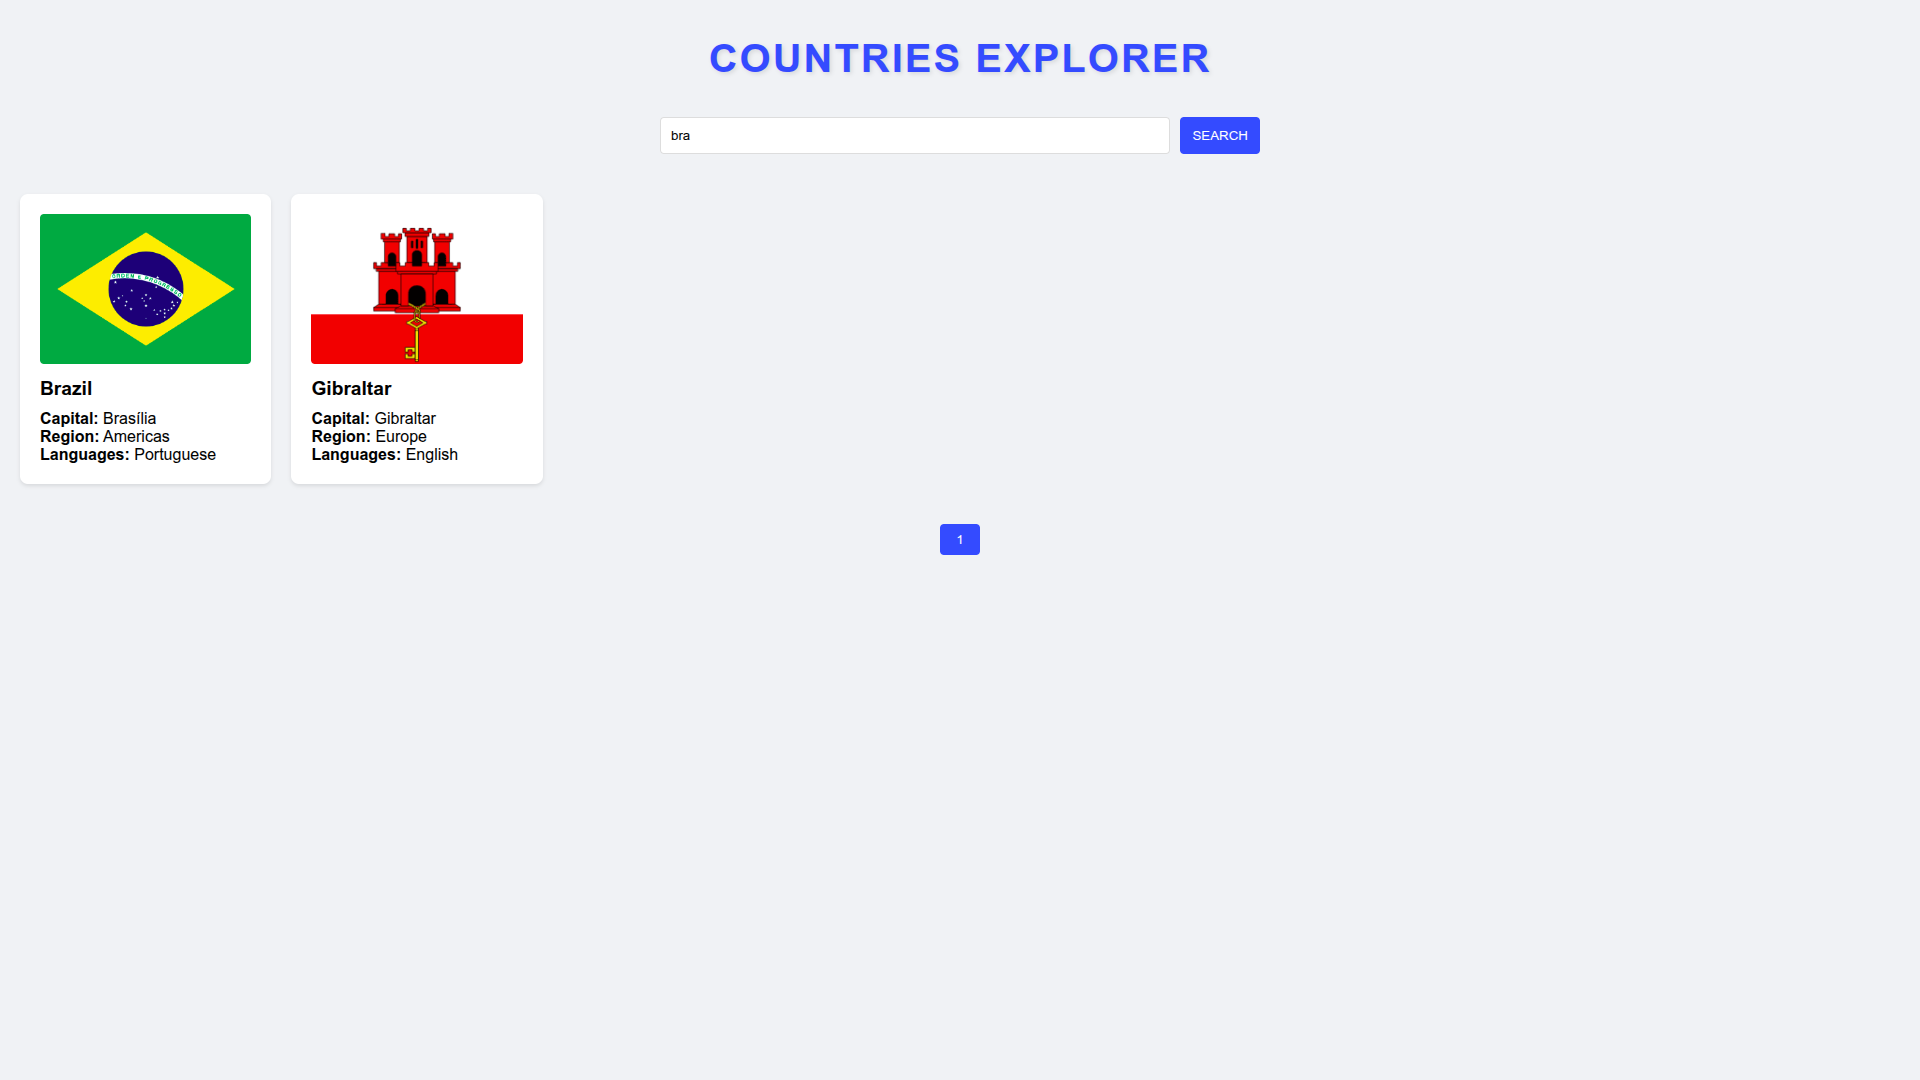
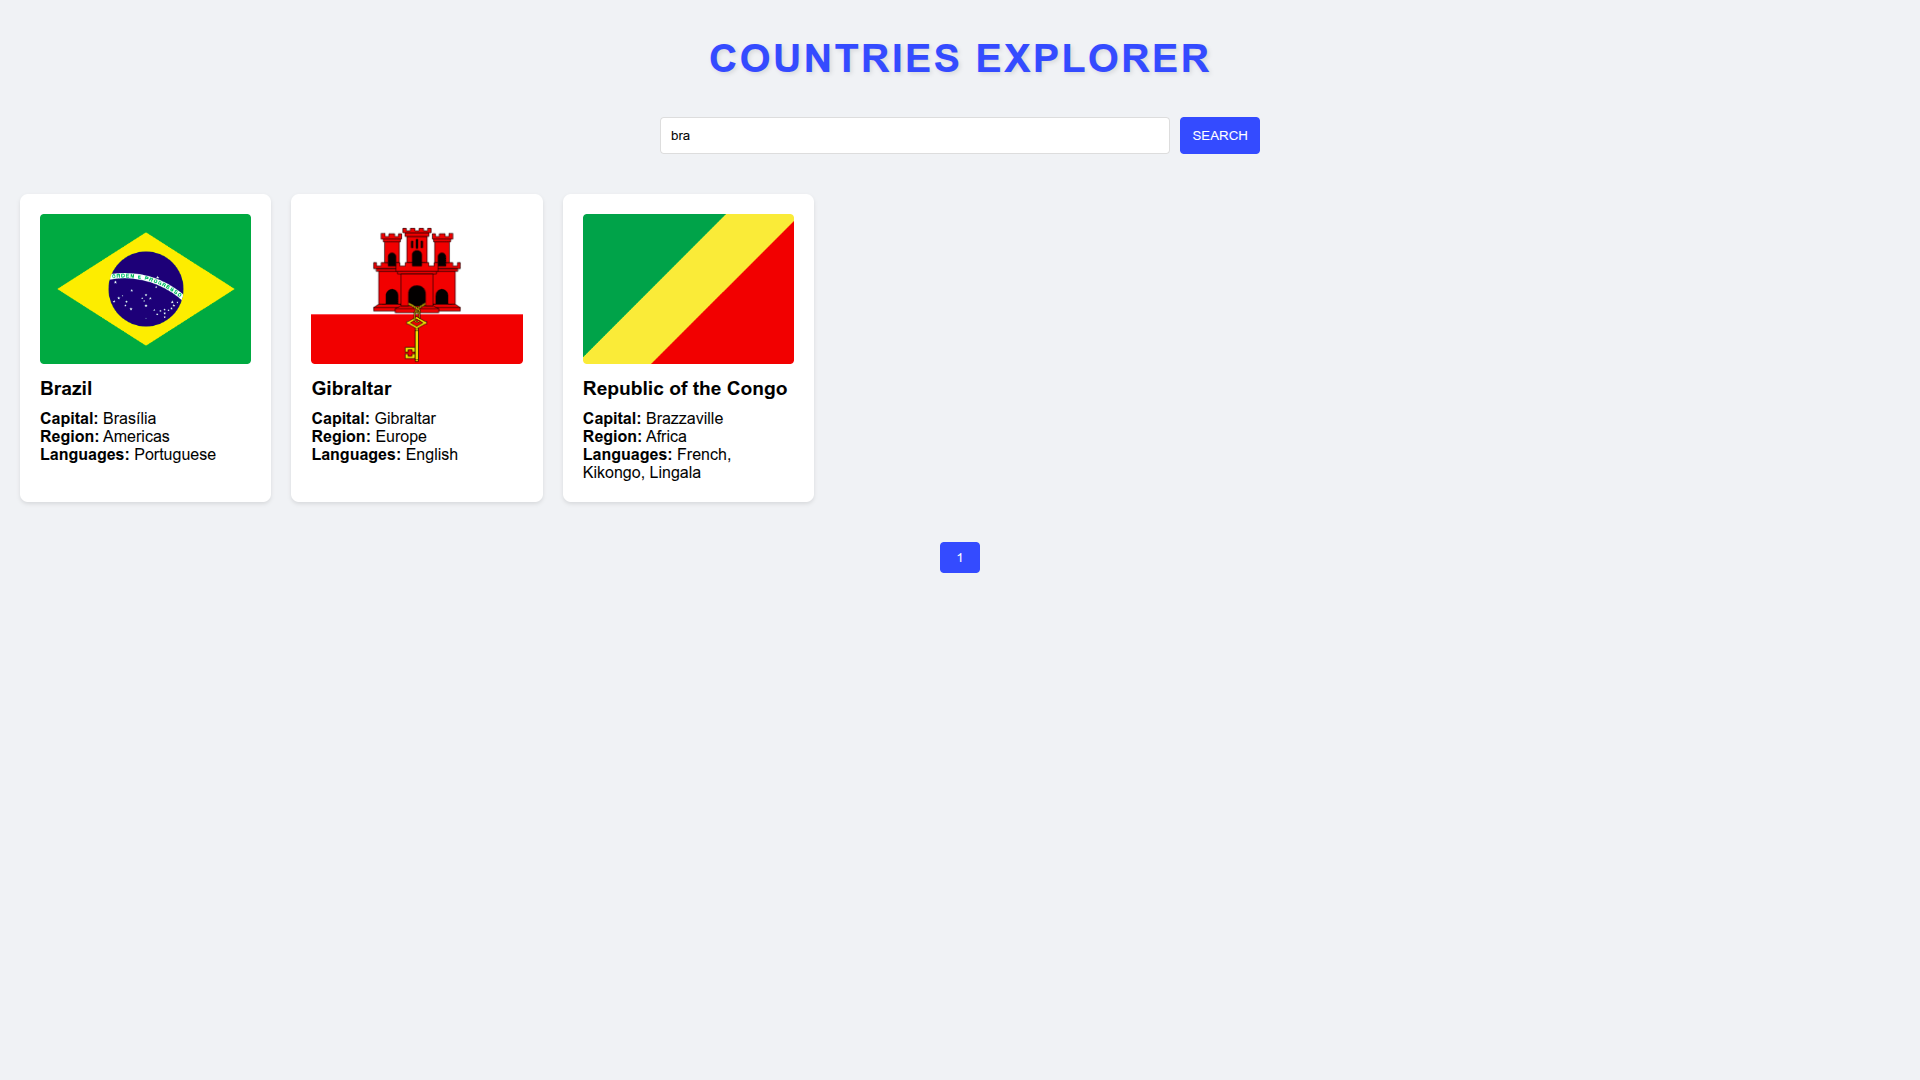
feat/refactor: filter by API, button title and general refactoring

Changed region(s): [[0.2812, 0.1833, 0.4375, 0.4583], [0.4688, 0.4889, 0.5312, 0.55]]

diff --git a/scripts/main.js b/scripts/main.js
@@ -1,42 +1,47 @@
 const ITEMS_PER_PAGE = 12;
 let currentPage = 1;
-let allCountries = [];
 let filteredCountries = [];
 
 document.addEventListener('DOMContentLoaded', () => {
     const searchInput = document.getElementById('searchInput');
     const searchBtn = document.getElementById('searchBtn');
     
-    // Fetch and initialize countries
-    fetch('https://restcountries.com/v3.1/all')
-        .then(response => response.json())
-        .then(initializeCountries)
-        .catch(handleError);
-
     // Event listeners
-    searchBtn.addEventListener('click', search);
-    searchInput.addEventListener('keydown', e => e.key === 'Enter' && search());
+    const triggerSearch = () => fetchCountries(searchInput.value.trim());
+    searchBtn.addEventListener('click', triggerSearch);
+    searchInput.addEventListener('keydown', e => e.key === 'Enter' && triggerSearch());
+    
+    // Initial load
+    fetchCountries();
 });
 
-function initializeCountries(data) {
-    allCountries = data.map(country => ({
-        name: country.name.common.toLowerCase(),
-        displayName: country.name.common,
-        capital: country.capital?.[0] || 'N/A',
-        region: country.region,
-        languages: Object.values(country.languages || {}).join(', ') || 'N/A',
-        flag: country.flags.png
-    }));
-    search();
-}
+async function fetchCountries(searchTerm = '') {
+    try {
+        const url = `https://restcountries.com/v3.1/${
+            searchTerm ? `name/${encodeURIComponent(searchTerm)}` : 'all'
+        }?fields=name,capital,region,languages,flags`;
+        
+        const response = await fetch(url);
+        const data = response.ok ? await response.json() : [];
+        
+        filteredCountries = data
+            .map(({ name, capital, region, languages, flags }) => ({
+                name: name.common.toLowerCase(),
+                displayName: name.common,
+                capital: capital?.[0] || 'N/A',
+                region: region,
+                languages: Object.values(languages || {}).join(', ') || 'N/A',
+                flag: flags.png
+            }))
+            .sort((a, b) => a.displayName.localeCompare(b.displayName));
 
-function search() {
-    const searchTerm = document.getElementById('searchInput').value.trim().toLowerCase();
-    filteredCountries = allCountries
-        .filter(country => country.name.includes(searchTerm))
-        .sort((a, b) => a.displayName.localeCompare(b.displayName));
-    currentPage = 1;
-    updateUI();
+        currentPage = 1;
+        updateUI();
+    } catch (error) {
+        console.error('Error:', error);
+        filteredCountries = [];
+        updateUI();
+    }
 }
 
 function updateUI() {
@@ -49,12 +54,12 @@ function renderCountries() {
     const paginated = filteredCountries.slice(start, start + ITEMS_PER_PAGE);
     const container = document.getElementById('countryContainer');
     
-    container.innerHTML = paginated.length > 0 
-        ? paginated.map(renderCountryCard).join('')
-        : '<p class="no-results">No countries found</p>';
+    container.innerHTML = paginated.length > 0 ? `
+        ${paginated.map(country => renderCountry(country))
+            .join('')}` : '<p class="no-results">No countries found</p>';
 }
 
-function renderCountryCard(country) {
+function renderCountry(country) {
     return `
         <div class="country-card">
             <img src="${country.flag}" alt="${country.displayName} flag">
@@ -63,7 +68,7 @@ function renderCountryCard(country) {
             <p><strong>Region:</strong> ${country.region}</p>
             <p><strong>Languages:</strong> ${country.languages}</p>
         </div>
-    `;
+    `
 }
 
 function renderPagination() {
@@ -71,48 +76,46 @@ function renderPagination() {
     const paginationDiv = document.getElementById('pagination');
     paginationDiv.innerHTML = '';
 
-    if (totalPages === 0) return;
+    if (!totalPages) return;
 
     const pages = calculatePageNumbers(totalPages);
     const fragment = document.createDocumentFragment();
 
-    if (currentPage > 1) fragment.appendChild(createPageButton('<', currentPage - 1));
+    if (currentPage > 1)
+        fragment.appendChild(createPageButton('<', currentPage - 1, 'Previous page'));
 
-    // Page Numbers
-    pages.forEach(page => {
-        fragment.appendChild(
-            page === '...' 
-                ? createEllipsis()
-                : createPageButton(page)
-        );
-    });
+    pages.forEach(page => fragment.appendChild(
+        page === '...' ? createEllipsis() : createPageButton(page)
+    ));
 
-    if (currentPage < totalPages) fragment.appendChild(createPageButton('>', currentPage + 1));
+    if (currentPage < totalPages)
+        fragment.appendChild(createPageButton('>', currentPage + 1, 'Next page'));
 
     paginationDiv.appendChild(fragment);
 }
 
 function calculatePageNumbers(totalPages) {
     const pages = new Set([1, totalPages]);
-    const start = Math.max(2, currentPage - 1);
-    const end = Math.min(totalPages - 1, currentPage + 1);
+    const rangeStart = Math.max(2, currentPage - 1);
+    const rangeEnd = Math.min(totalPages - 1, currentPage + 1);
 
-    for (let i=start; i<=end; i++) pages.add(i);
-
-    const sortedPages = Array.from(pages).sort((a, b) => a - b);
-    return sortedPages.reduce((acc, page, index, arr) => {
-        if (index > 0 && page - arr[index - 1] > 1) acc.push('...');
-        acc.push(page);
-        return acc;
-    }, []);
+    for (let i=rangeStart; i<=rangeEnd; i++) pages.add(i);
+    
+    return Array.from(pages).sort((a, b) => a - b)
+        .reduce((acc, page, i, arr) => {
+            if (i > 0 && page - arr[i-1] > 1) acc.push('...');
+            acc.push(page);
+            return acc;
+        }, []);
 }
 
-function createPageButton(content, targetPage=content) {
+function createPageButton(page, targetPage, alt) {
     const button = document.createElement('button');
-    button.textContent = content;
-    if (content === currentPage) button.classList.add('active');
+    button.textContent = page;
+    button.title = alt || page;
+    if (page === currentPage) button.classList.add('active');
     button.addEventListener('click', () => {
-        currentPage = targetPage;
+        currentPage = targetPage || page;
         updateUI();
     });
     return button;
@@ -123,10 +126,4 @@ function createEllipsis() {
     ellipsis.className = 'ellipsis';
     ellipsis.textContent = '...';
     return ellipsis;
-}
-
-function handleError(error) {
-    console.error('Error:', error);
-    document.getElementById('countryContainer').innerHTML = 
-        '<p class="no-results">Failed to load countries</p>';
 }

diff --git a/README.md b/README.md
@@ -4,7 +4,7 @@
 
 This simple project is responsible for acquiring that data and displaying the countries as a paginated list, on which there's some of the main pieces of information about them.
 
-It is also possible to search for the countries' names, filtering them as you like.
+It is also possible to search for the countries' names, where the API will filter your results by a part of the countries' name as you like.
 
 ## Installation
 
